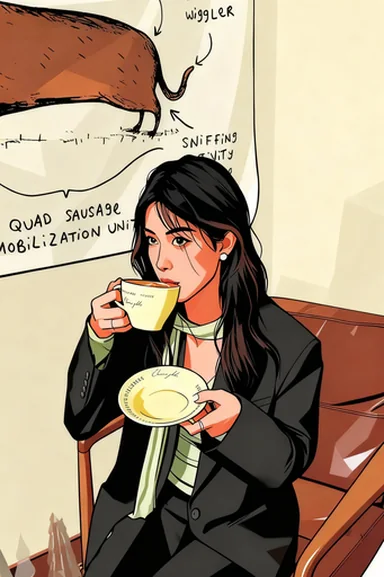
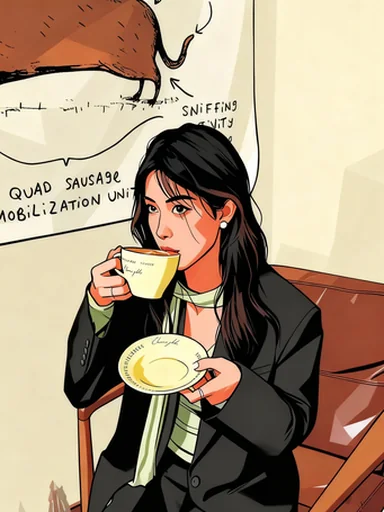
Refcond refs: uniform 3:4 crop, one per row, height matched to output cells
- Pipeline center-crops every ref exemplar to a uniform 3:4 portrait
  (dog gets its side floor trimmed, others trimmed top/bottom) — no white
  padding, no aspect-ratio stretch
- Layout: one ref per row; each ref cell fills its row height via
  object-fit, so ref height = generated cell height and all refs share
  one width
- Shorten row labels to Naive / PDM / Teacher (matches the paper, avoids
  crowding the narrow label column)

diff --git a/js/main.js b/js/main.js
@@ -109,27 +109,24 @@ const REFCOND = {
     { s: 2, refs: [1, 3, 5] },  // billiards player (illustration style)
   ],
   rows: [
-    { key: "base",    label: "Naive student" },
-    { key: "pdm",     label: "PDM student", ours: true },
-    { key: "teacher", label: "Teacher (sees refs)" },
+    { key: "base",    label: "Naive" },
+    { key: "pdm",     label: "PDM", ours: true },
+    { key: "teacher", label: "Teacher" },
   ],
 };
 
 function refcondSlide(sample) {
   const cfg = REFCOND;
-  /* paper layout: Ref-style exemplars are the LEFTMOST column; the
-     Naive/PDM/Teacher labels sit between the refs and the CFG outputs */
-  let h = '<div class="grid-scroll"><table class="dgrid figgrid"><thead><tr><th class="colhead kf">Ref style</th><th class="rowhead"></th>';
+  /* paper layout: Ref-style exemplars are the LEFTMOST column, one per row;
+     the Naive/PDM/Teacher labels sit between the refs and the CFG outputs.
+     Each ref fills its row height (= generated cell height) via object-fit. */
+  let h = '<div class="grid-scroll"><table class="dgrid figgrid figgrid-ref"><thead><tr><th class="colhead kf">Ref style</th><th class="rowhead"></th>';
   cfg.cols.forEach((c) => (h += `<th class="colhead">${c}</th>`));
   h += "</tr></thead><tbody>";
   cfg.rows.forEach((r, ri) => {
     h += `<tr class="${r.ours ? "ours" : ""}">`;
-    if (ri === 0) {
-      const stack = sample.refs
-        .map((n) => `<div class="cell tgt"><img loading="lazy" decoding="async" src="${cfg.dir}/ref${n}.webp" alt="reference-style exemplar"></div>`)
-        .join("");
-      h += `<td rowspan="${cfg.rows.length}" class="refstack-td"><div class="refstack">${stack}</div></td>`;
-    }
+    const refN = sample.refs[ri];
+    h += `<td class="refcell"><div class="cell tgt"><img loading="lazy" decoding="async" src="${cfg.dir}/ref${refN}.webp" alt="reference-style exemplar"></div></td>`;
     const lbl = r.ours
       ? `<span class="rowlabel-strong">${r.label}<span class="ours-pill">OURS</span></span>`
       : r.label;

diff --git a/index.html b/index.html
@@ -19,7 +19,7 @@
 <link rel="stylesheet" href="https://cdn.jsdelivr.net/npm/katex@0.16.11/dist/katex.min.css" crossorigin="anonymous">
 <script defer src="https://cdn.jsdelivr.net/npm/katex@0.16.11/dist/katex.min.js" crossorigin="anonymous"></script>
 <script defer src="https://cdn.jsdelivr.net/npm/katex@0.16.11/dist/contrib/auto-render.min.js" crossorigin="anonymous"></script>
-<link rel="stylesheet" href="css/style.css?v=19">
+<link rel="stylesheet" href="css/style.css?v=20">
 </head>
 <body>
 
@@ -428,7 +428,7 @@
       that behavior; naive matching departs from the teacher, with visual distortion and style drift strongest at
       γ = 1. That <b>excess</b> degradation is exactly the distillation-induced sensitivity NBA predicts.</p>
     <div id="fig-refcond"></div>
-    <div class="legend"><span><span class="sw ours"></span> PDM (Ours) rows are highlighted; the left column stacks the reference-style exemplars, seen only by the teacher.</span></div>
+    <div class="legend"><span><span class="sw ours"></span> PDM (Ours) rows are highlighted; the left column shows the reference-style exemplars, seen only by the teacher.</span></div>
   </div>
 </section>
 
@@ -675,6 +675,6 @@
 </footer>
 
 <script defer src="js/curves-data.js?v=1"></script>
-<script defer src="js/main.js?v=18"></script>
+<script defer src="js/main.js?v=19"></script>
 </body>
 </html>

diff --git a/css/style.css b/css/style.css
@@ -242,10 +242,13 @@ table.figgrid tr.ours td .cell.tgt { border-color: var(--line); box-shadow: none
 table.figgrid tr.sample-sep > * { padding-top: 16px; }
 table.figgrid td .cell { max-width: 300px; }
 
-/* reference-style exemplar stack (paper Fig. 3/5 "Ref Style" column) */
-td.refstack-td { width: 19%; }
-.refstack { display: flex; flex-direction: column; gap: 6px; max-width: 232px; margin: 0 auto; }
-.refstack .cell { min-width: 0; }
+/* reference-style exemplar column (paper Fig. 3/5 "Ref Style").
+   One exemplar per row; the td stretches to the row height (set by the
+   square generated cells) and the image fills it, so every ref is the
+   same height as the generated images and the same width as each other. */
+table.figgrid-ref td.refcell { width: 12%; position: relative; padding: 3px; }
+table.figgrid-ref td.refcell > .cell { position: absolute; inset: 3px; min-width: 0; }
+table.figgrid-ref td.refcell > .cell img { width: 100%; height: 100%; object-fit: cover; }
 
 /* legend */
 .legend { display:flex; gap:18px; justify-content:center; flex-wrap:wrap; margin: 14px 0 0; font-size:13.5px; color:var(--ink-soft); }
